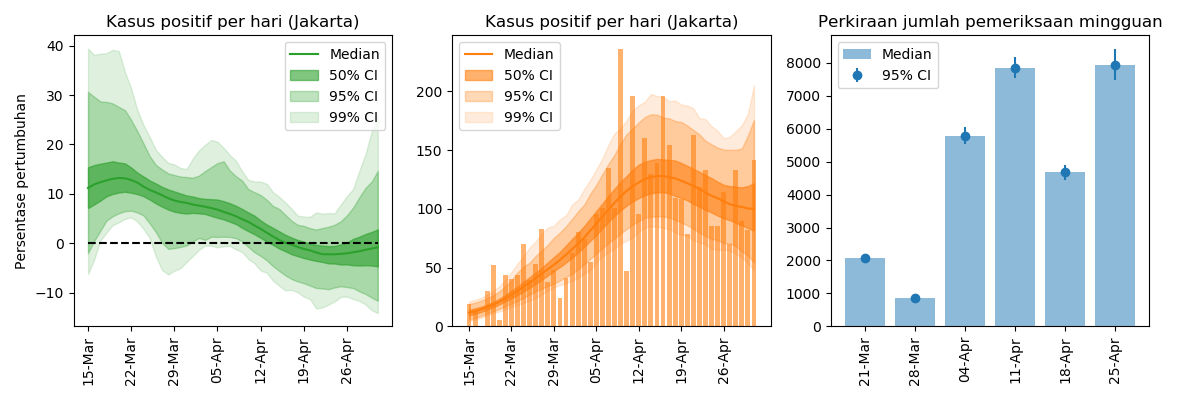
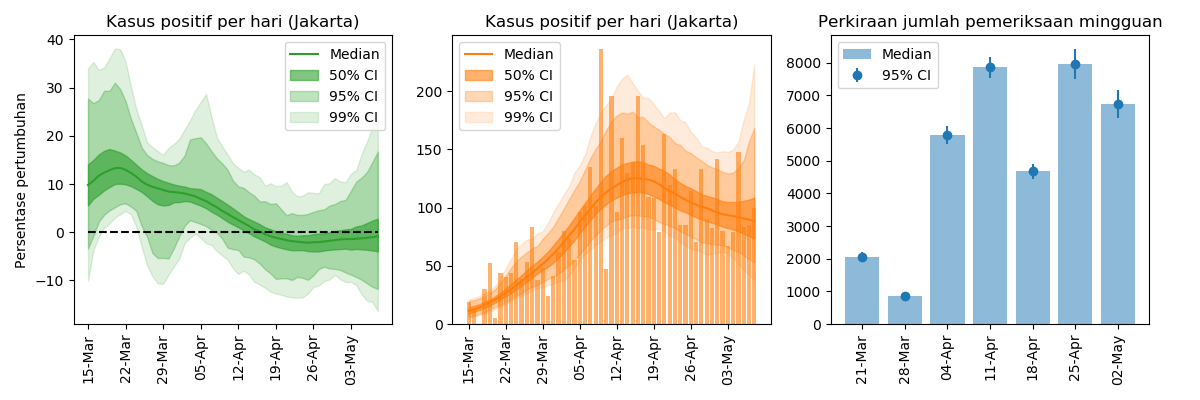
Update percentage

diff --git a/idcovid19.md b/idcovid19.md
@@ -8,53 +8,53 @@ permalink: /idcovid19/
 ## Apakah kurva penyebaran telah turun?
 
 Sumber data: [KawalCOVID19](https://kawalcovid19.id/)<br/>
-Diperbarui pada: 01/05/2020<br/>
+Diperbarui pada: 08/05/2020<br/>
 Metode dapat dilihat di [sini]({{ site.baseurl }}/2020/04/17/COVID19-has-the-curve-flatten/)
 
 #### Indonesia
 
-Probabilitas menurun: \\(37\%\\)<br/>
+Probabilitas menurun: \\(48\%\\)<br/>
 Hasil: belum dapat disimpulkan<br/>
-Estimasi jumlah kasus: 150.000 (95% CI: 100.000 - 250.000)
+Estimasi jumlah kasus: 160.000 (95% CI: 110.000 - 310.000)
 
 <img title="Indonesia" src="{{ site.baseurl }}/assets/idcovid19-daily/id_new_cases.png" width="100%"/>
 
 #### Jakarta
 
-Probabilitas menurun: \\(56\%\\)<br/>
+Probabilitas menurun: \\(58\%\\)<br/>
 Hasil: ada indikasi penurunan, tapi belum dapat dipastikan<br/>
-Estimasi jumlah kasus: 69.000 (95% CI: 44.000 - 130.000)
+Estimasi jumlah kasus: 62.000 (95% CI: 42.000 - 120.000)
 
 <img title="Jakarta" src="{{ site.baseurl }}/assets/idcovid19-daily/idprov_jakarta_new_cases.png" width="100%"/>
 
 #### Jabar
 
-Probabilitas menurun: \\(82\%\\)<br/>
-Hasil: **kemungkinan** turun<br/>
-Estimasi jumlah kasus: 14.000 (95% CI: 9.200 - 25.000)
+Probabilitas menurun: \\(34\%\\)<br/>
+Hasil: belum dapat disimpulkan<br/>
+Estimasi jumlah kasus: 15.000 (95% CI: 8.700 - 29.000)
 
 <img title="Jabar" src="{{ site.baseurl }}/assets/idcovid19-daily/idprov_jabar_new_cases.png" width="100%"/>
 
 #### Jatim
 
-Probabilitas menurun: \\(27\%\\)<br/>
+Probabilitas menurun: \\(41\%\\)<br/>
 Hasil: belum dapat disimpulkan<br/>
-Estimasi jumlah kasus: 23.000 (95% CI: 14.000 - 47.000)
+Estimasi jumlah kasus: 28.000 (95% CI: 17.000 - 55.000)
 
 <img title="Jatim" src="{{ site.baseurl }}/assets/idcovid19-daily/idprov_jatim_new_cases.png" width="100%"/>
 
 #### Jateng
 
-Probabilitas menurun: \\(57\%\\)<br/>
+Probabilitas menurun: \\(51\%\\)<br/>
 Hasil: ada indikasi penurunan, tapi belum dapat dipastikan<br/>
-Estimasi jumlah kasus: 15.000 (95% CI: 9.500 - 29.000)
+Estimasi jumlah kasus: 13.000 (95% CI: 8.700 - 23.000)
 
 <img title="Jateng" src="{{ site.baseurl }}/assets/idcovid19-daily/idprov_jateng_new_cases.png" width="100%"/>
 
 #### Sulsel
 
-Probabilitas menurun: \\(34\%\\)<br/>
+Probabilitas menurun: \\(35\%\\)<br/>
 Hasil: belum dapat disimpulkan<br/>
-Estimasi jumlah kasus: 7.000 (95% CI: 4.500 - 14.000)
+Estimasi jumlah kasus: 8.700 (95% CI: 6.000 - 18.000)
 
 <img title="Sulsel" src="{{ site.baseurl }}/assets/idcovid19-daily/idprov_sulsel_new_cases.png" width="100%"/>
